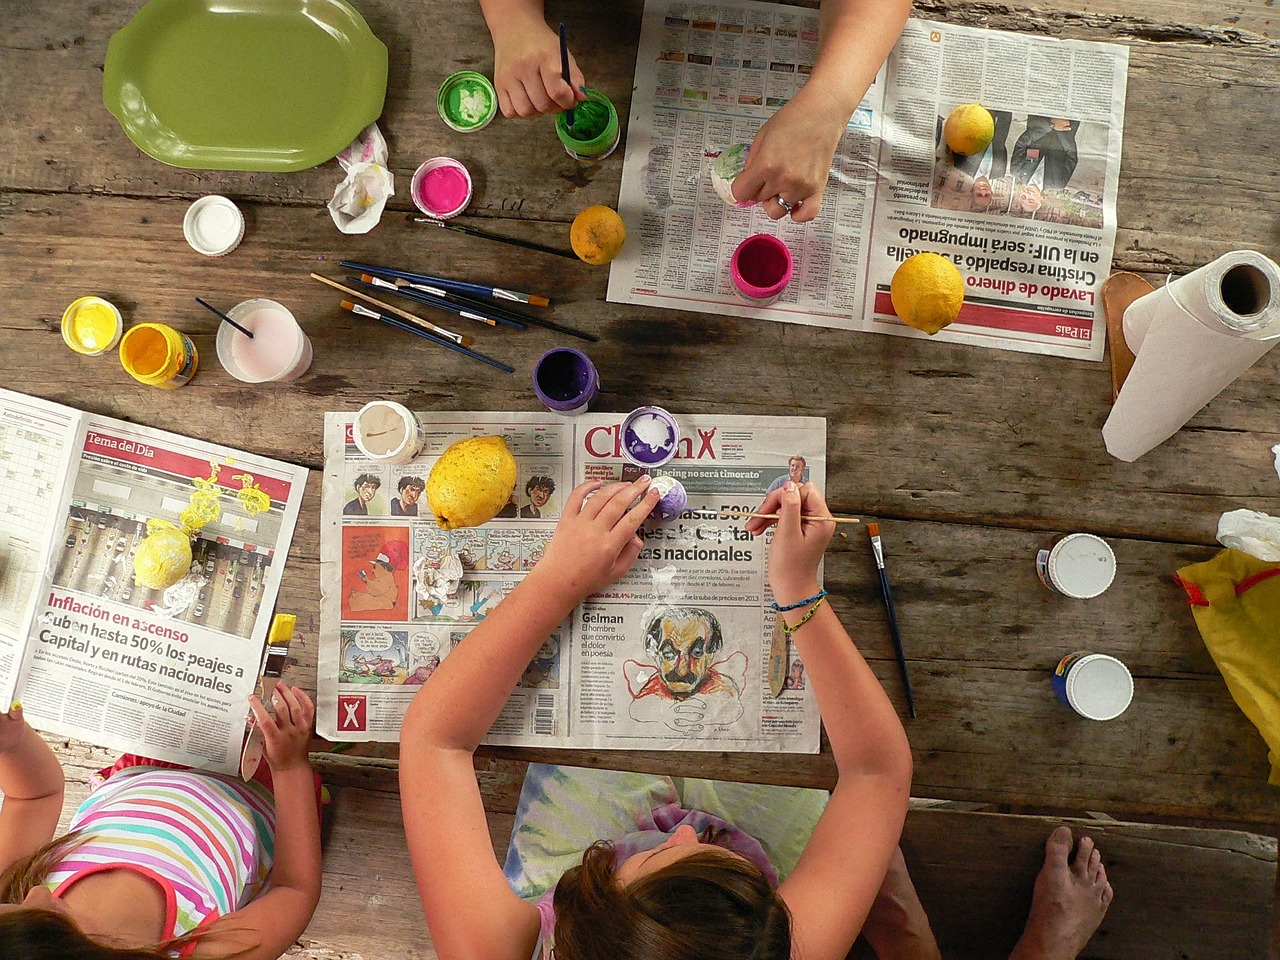
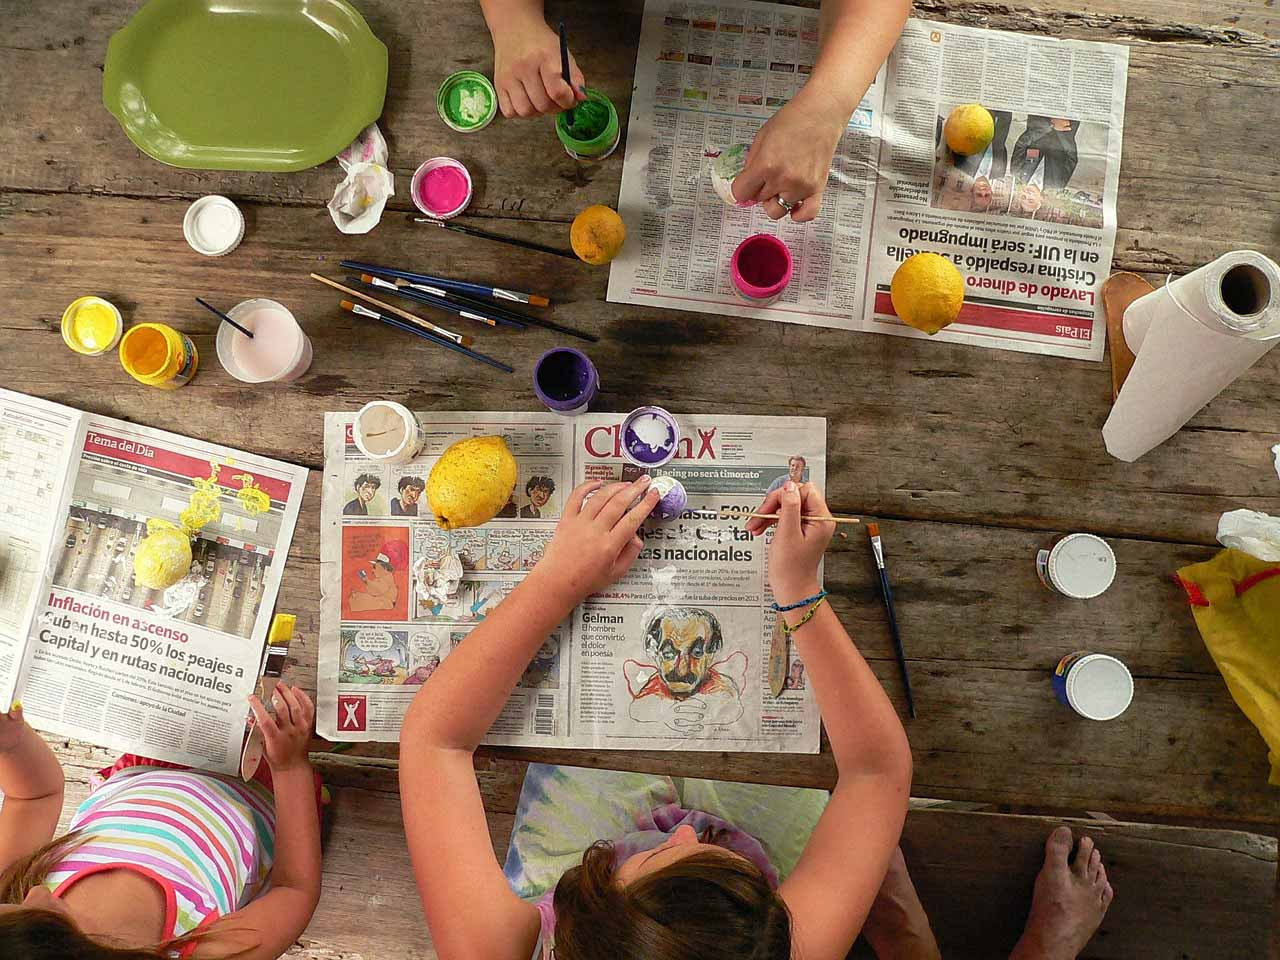
Updated image sizes/resolution. Changed picture layout
Changed layout of pictures and placement of text.
Updated image resolution to help page load time.

diff --git a/index.html b/index.html
@@ -149,12 +149,12 @@
         </div>
         <div class="col-md-6 aside">
           <div class="row mini-image">
-            <img class="media-object img-responsive col-md-6 aside" src="images/image-six.jpg" alt="Photography">
-            <img class="media-object img-responsive col-md-6 left" src="images/image-five.jpg" alt="Mittens">
+            <img class="thumbnail col-md-6 aside" src="images/image-six.jpg" alt="Photography" width="150" height="250">
+            <img class="thumbnail col-md-6 left" src="images/image-five.jpg" alt="Mittens" width="150" height="250">
           </div>
           <div class="row mini-image">
-            <img class="media-object img-responsive col-md-6 aside" src="images/painting-newspaper.jpg" alt="Painting Newspaper">
-            <img class="media-object img-responsive col-md-6 left"  src="images/image-two.jpg" alt="Mother and Daughter">
+            <img class="thumbnail col-md-6 aside" src="images/painting-newspaper.jpg" alt="Painting Newspaper" width="150" height="250">
+            <img class="thumbnail col-md-6 left"  src="images/image-two.jpg" alt="Mother and Daughter" width="150" height="250">
           </div>
         </div>
       </div>

diff --git a/stylesheets/main_style.css b/stylesheets/main_style.css
@@ -57,19 +57,22 @@ body {
 /* Featurettes */
 
 /* Thin out the marketing headings */
+
 .featurette-heading {
   font-weight: 300;
   line-height: 1;
   letter-spacing: -1px;
   text-align: left;
+  margin-left: -10%;
 }
 
 .lead {
   text-align: left;
+  margin-left: -10%;
 }
 
 .mini-image {
-  margin-bottom: 10%;
+  margin-bottom: -10%;
   margin-top: 10%;
   margin-right: -10%;
 }
@@ -108,7 +111,7 @@ body {
 
 @media (min-width: 992px) {
   .featurette-heading {
-    margin-top: 120px;
+    margin-top: 175px;
   }
 }
 
